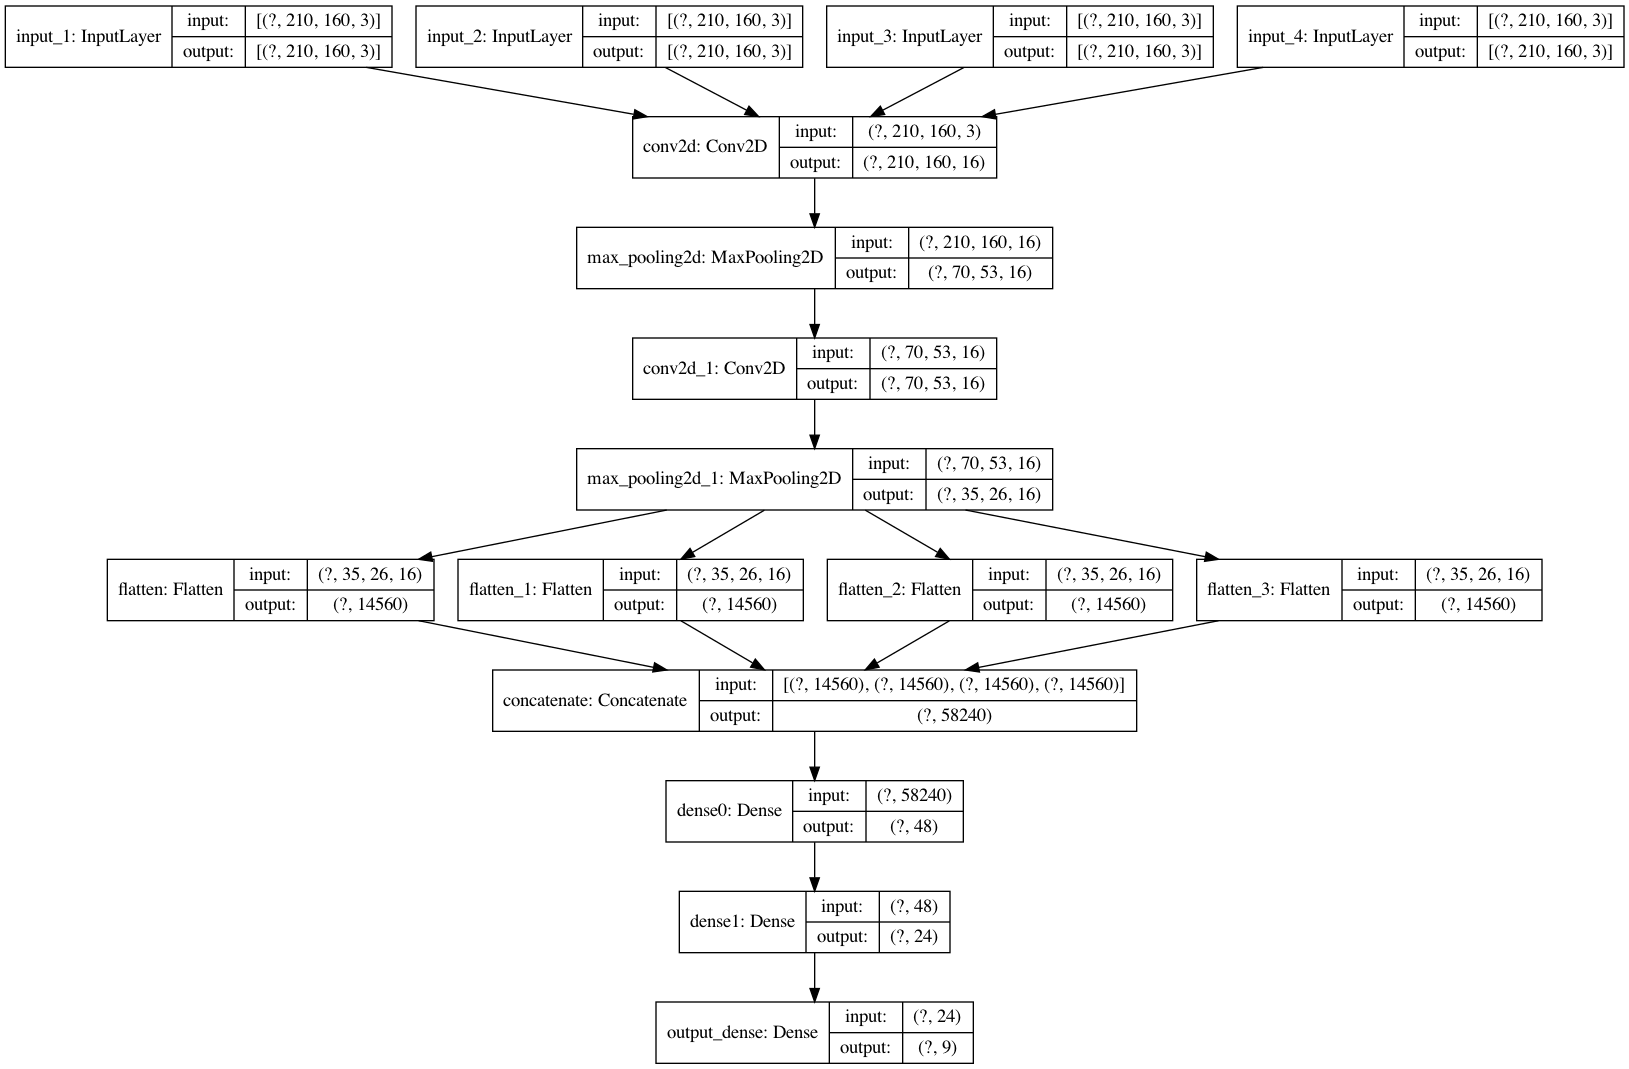
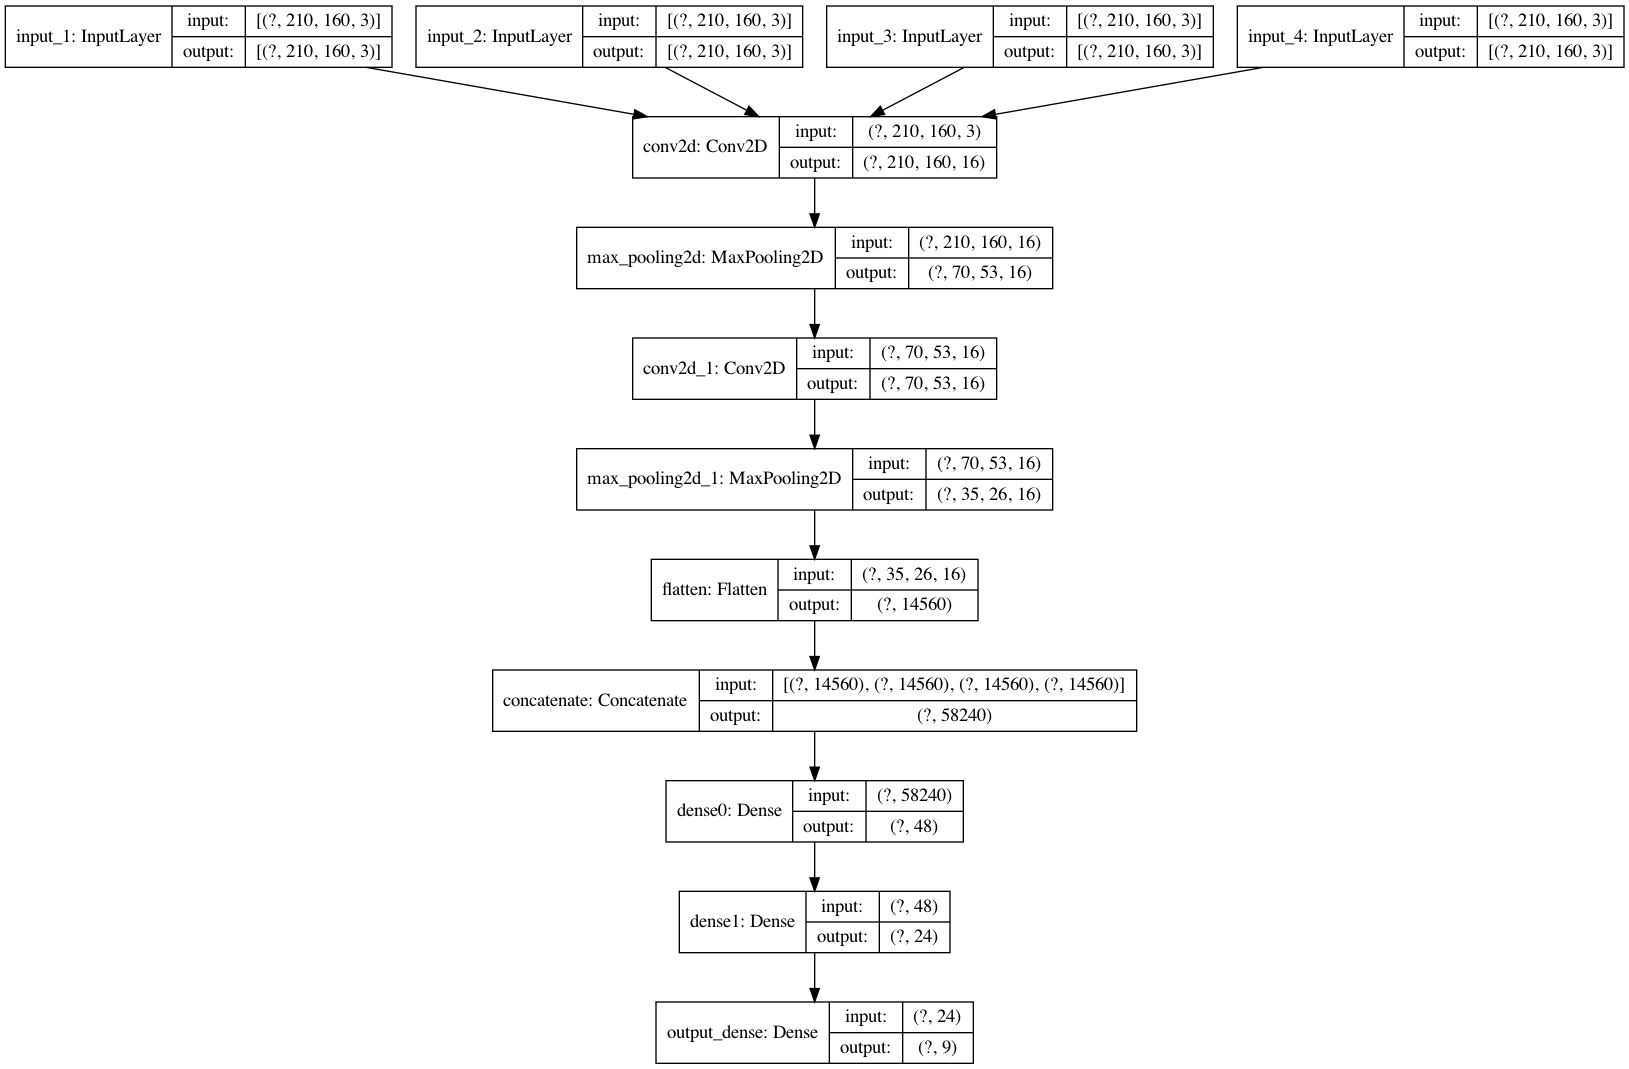
Adds reward plotting

Changed region(s): [[0.3376, 0.4939, 0.9515, 0.5865], [0.0614, 0.4939, 0.3376, 0.5865]]

diff --git a/sota_dqn/dqn_trainer.py b/sota_dqn/dqn_trainer.py
@@ -7,7 +7,9 @@ import atexit
 from .dqn_base import DQNBase
 
 import seaborn as sns
-
+import matplotlib as mpl
+mpl.use('Agg')
+import matplotlib.pyplot as plt
 
 class DQNTrainer(DQNBase):
     '''
@@ -129,9 +131,12 @@ class DQNTrainer(DQNBase):
         for trial in range(episodes):
             self.add_frame(self.env.reset())
 
-            if self.save_every is not None and trial % self.save_every == 0:
+            if trial % self.save_every == 0:
                 if self.persistence_file is not None:
                     self.save_model(self.persistence_file)
+                if self.reward_chart is not None:
+                    sns.lineplot(x=range(len(all_rewards)), y=all_rewards)
+                    plt.savefig(self.reward_chart)
 
             steps = 0
             done = False
@@ -158,7 +163,5 @@ class DQNTrainer(DQNBase):
                     break
 
             all_rewards.append(total_reward)
-            if self.reward_chart is not None:
-                plot = sns.lineplot(x=range(len(all_rewards)), y=all_rewards)
-                plot.savefig(self.reward_chart)
+
         return all_rewards

diff --git a/examples/cnn/train.py b/examples/cnn/train.py
@@ -35,13 +35,13 @@ inputs_convoluted = [conv_layer2(i) for i in inputs_pooled]
 pool_layer2 = MaxPooling2D(pool_size=(2, 2))
 inputs_pooled2 = [pool_layer2(i) for i in inputs_convoluted]
 
-flattened = [Flatten()(i) for i in inputs_pooled2]
+flatten_layer = Flatten()
+flattened = [flatten_layer(i) for i in inputs_pooled2]
 merged = Concatenate()(flattened)
 
 d0 = Dense(48, activation='relu', name='dense0')(merged)
 d1 = Dense(24, activation='relu', name='dense1')(d0)
 
-print(env.action_space)
 outputs = \
     Dense(env.action_space.n, activation="relu", name="output_dense")(d1)
 
@@ -60,12 +60,13 @@ model.compile(
 dqn = DQNTrainer(
         env=env,
         model=model,
-        replay_batch_size=12,
+        replay_batch_size=1,
         input_shape=input_shape,
         memory=BasicReplayMemory(2000),
         frame_buffer_size=frame_buffer,
         persistence_file="ms-pacman.model",
-        save_every=3
+        save_every=1,
+        reward_chart="media/ms-pacman-rewards.png"
 )
 
 dqn.train(episodes=100)

diff --git a/examples/basic/train.py b/examples/basic/train.py
@@ -45,6 +45,7 @@ dqn = DQNTrainer(
         memory=BasicReplayMemory(2000),
         frame_buffer_size=frame_buffer,
         persistence_file="cartpole.model",
+        reward_chart="media/cartpole_rewards.png",
         save_every=3
 )
 
